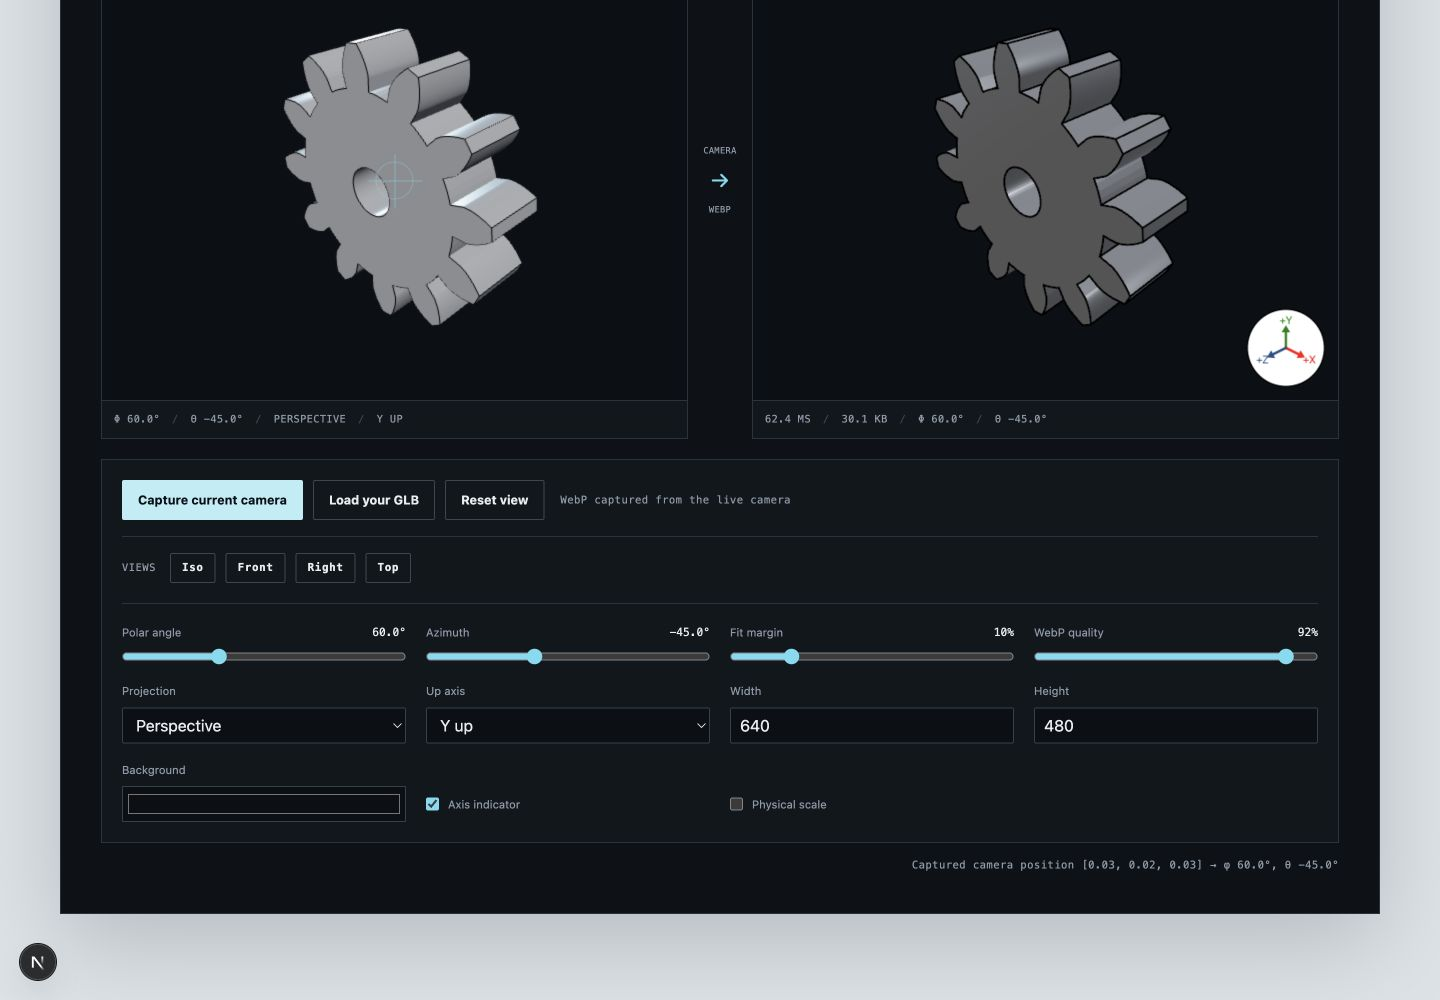
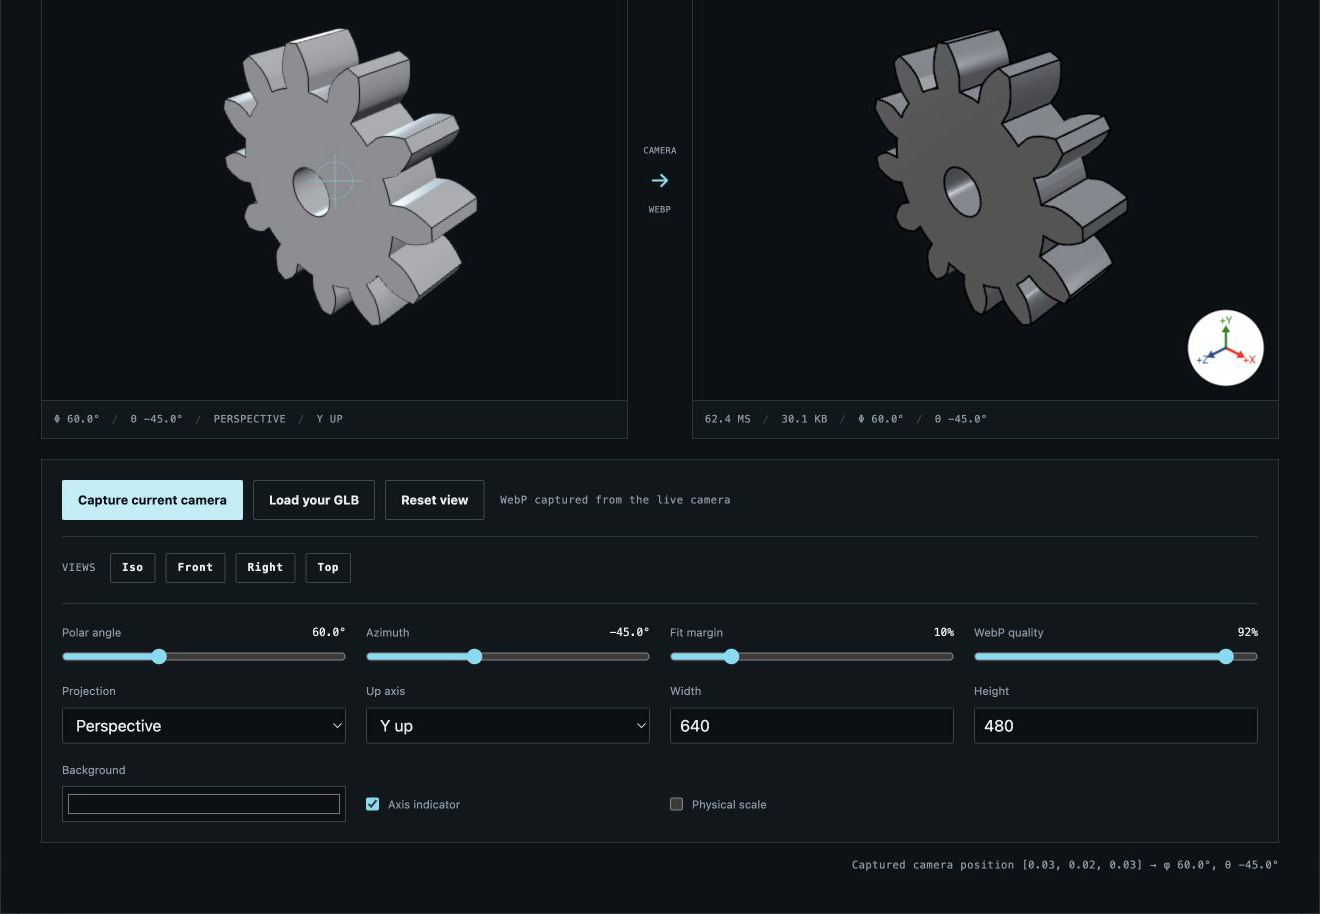
feat(brand): Add the scanline brandmark across every surface (#20)
* feat(brand): Add the scanline brandmark across every surface

nanoraster had no brand assets: docs-site/public held only llms.txt, the
README opened on a bare heading, and the docs nav carried a text title.

The mark is a sphere resolved one scanline at a time — each row spans the
chord the sphere subtends at its own height, so the silhouette's curve is
described entirely by the changing length of straight lines. Shading is the
library's own model rather than a stand-in: glTF metallic-roughness as a
polished dielectric, with a GGX distribution, Smith visibility, Schlick
Fresnel, an analytic environment, Reinhard tone mapping and 2.2 gamma. A
specular lobe varies in two dimensions and a flat fill cannot, so every bar
carries a gradient sampled across its own chord.

The geometry is generated, not drawn. It is built with Replicad and lives as
a parametric example in the Tau monorepo (libs/tau-examples, nanoraster-logo),
which owns the generator and a drift check; the SVGs here are its output,
copied in. The wordmark is committed outlines set in Geist Bold, the face
this repo already vendors for its own text rendering, because the banner has
to draw identically on GitHub where no font can be assumed.

The tile is the mark's own ground rather than transparency, so the lit bars
keep their contrast on a white page and a dark README alike.

Surfaces wired: README banner, docs-site nav mark, landing hero, and the
[…]

diff --git a/docs-site/components/api-type-table.tsx b/docs-site/components/api-type-table.tsx
@@ -170,16 +170,16 @@ export const ApiTypeTable = ({
             </CollapsibleTrigger>
 
             <CollapsibleContent>
-              <div className="border-t px-3 py-4">
+              <div className="border-t px-3 py-2.5">
                 {field.description && (
-                  <div className="prose prose-no-margin mb-4 text-sm empty:hidden">{field.description}</div>
+                  <div className="prose prose-no-margin mb-2 text-sm empty:hidden">{field.description}</div>
                 )}
 
                 {(field.default != null ||
                   field.typeDescriptionLink ||
                   field.parameters?.length ||
                   field.returns) && (
-                  <dl className="grid grid-cols-[minmax(5rem,auto)_minmax(0,1fr)] gap-x-4 gap-y-3 border-t pt-3">
+                  <dl className="grid grid-cols-[minmax(5rem,auto)_minmax(0,1fr)] items-center gap-x-4 gap-y-2 border-t pt-2 not-prose">
                     {field.typeDescriptionLink && (
                       <Detail label="Reference">
                         <Link href={field.typeDescriptionLink} className="font-mono text-xs underline">

diff --git a/docs-site/components/render-lab.tsx b/docs-site/components/render-lab.tsx
@@ -613,7 +613,8 @@ export const RenderLab = (): React.JSX.Element => {
               type="range"
               value={camera.phi}
               onChange={(event) => {
-                setCamera((current) => ({ ...current, phi: Number(event.currentTarget.value) }));
+                const phi = event.currentTarget.valueAsNumber;
+                setCamera((current) => ({ ...current, phi }));
               }}
             />
           </label>
@@ -628,7 +629,8 @@ export const RenderLab = (): React.JSX.Element => {
               type="range"
               value={camera.theta}
               onChange={(event) => {
-                setCamera((current) => ({ ...current, theta: Number(event.currentTarget.value) }));
+                const theta = event.currentTarget.valueAsNumber;
+                setCamera((current) => ({ ...current, theta }));
               }}
             />
           </label>

diff --git a/docs-site/app/layout.tsx b/docs-site/app/layout.tsx
@@ -6,6 +6,15 @@ import './global.css';
 
 export const metadata: Metadata = {
   description: 'Tiny headless WebGPU GLTF renderer for deterministic PNG, WebP, and JPEG output.',
+  icons: {
+    // iOS masks the icon itself, so this one is full-bleed and opaque
+    // rather than the rounded, transparent-cornered tile.
+    apple: { sizes: '180x180', url: '/apple-touch-icon.png' },
+    icon: [
+      { url: '/favicon.svg', type: 'image/svg+xml' },
+      { url: '/favicon.ico', sizes: '32x32' },
+    ],
+  },
   metadataBase: new URL('https://nanoraster.xyz'),
   title: { default: 'nanoraster', template: `%s — nanoraster` },
 };

diff --git a/docs-site/app/docs/layout.tsx b/docs-site/app/docs/layout.tsx
@@ -7,7 +7,14 @@ import packageManifest from '../../../package.json';
 
 const Layout = ({ children }: { readonly children: ReactNode }): React.JSX.Element => (
   <DocsLayout
-    nav={{ title: `nanoraster ${packageManifest.version}` }}
+    nav={{
+      title: (
+        <>
+          <img alt="" className="h-5 w-5" src="/logo.svg" />
+          {`nanoraster ${packageManifest.version}`}
+        </>
+      ),
+    }}
     sidebar={{ footer: <TauAttributionFooter /> }}
     tree={source.pageTree}
   >

diff --git a/docs-site/app/page.module.css b/docs-site/app/page.module.css
@@ -35,15 +35,10 @@
   letter-spacing: -0.025em;
 }
 
-.wordmark span {
-  display: grid;
+/* The mark carries its own dark tile, so it needs no ground of its own. */
+.mark {
   width: 28px;
   height: 28px;
-  place-items: center;
-  color: #e9edf0;
-  background: #17202a;
-  font-family: ui-monospace, SFMono-Regular, Menlo, monospace;
-  font-size: 0.72rem;
 }
 
 .hero {

diff --git a/docs-site/app/page.tsx b/docs-site/app/page.tsx
@@ -10,7 +10,7 @@ const Page = (): React.JSX.Element => (
   <main className={styles.page}>
     <nav className={styles.nav} aria-label="Primary navigation">
       <Link className={styles.wordmark} href="/">
-        <span aria-hidden="true">N</span>
+        <img alt="" className={styles.mark} src="/logo.svg" />
         nanoraster
       </Link>
       <div>

diff --git a/README.md b/README.md
@@ -1,8 +1,12 @@
-# nanoraster
+<h1 align="center">
+  <img src="images/banner.svg" alt="nanoraster" width="100%">
+</h1>
 
-[![npm](https://img.shields.io/npm/v/nanoraster)](https://www.npmjs.com/package/nanoraster)
-[![CI](https://github.com/taucad/nanoraster/actions/workflows/ci.yml/badge.svg)](https://github.com/taucad/nanoraster/actions/workflows/ci.yml)
-[![Part of the Tau ecosystem](https://img.shields.io/badge/Tau-ecosystem-6d28d9)](https://tau.new)
+<p align="center">
+  <a href="https://www.npmjs.com/package/nanoraster"><img src="https://img.shields.io/npm/v/nanoraster?logo=npm&logoColor=white&label=npm&color=cb3837" alt="npm version"></a>
+  <a href="https://github.com/taucad/nanoraster/actions/workflows/ci.yml"><img src="https://github.com/taucad/nanoraster/actions/workflows/ci.yml/badge.svg" alt="CI"></a>
+  <a href="https://tau.new"><img src="https://img.shields.io/badge/Tau-ecosystem-6d28d9" alt="Part of the Tau ecosystem"></a>
+</p>
 
 Tiny headless WebGPU GLTF renderer for deterministic PNG, WebP, and JPEG output.
 
